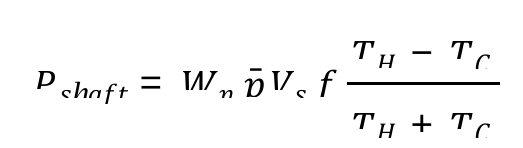
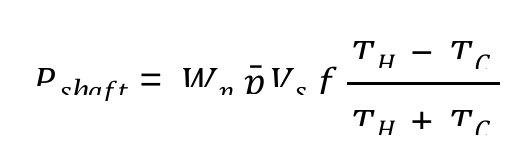
test: verify math exports on Obsidian 1.13 and 1.14

diff --git a/src/math-fonts.test.ts b/src/math-fonts.test.ts
@@ -60,10 +60,12 @@ describe("getMathJaxCSSInlined font resources", () => {
     expect(localFetch).toHaveBeenCalledWith("app://obsidian.md/lib/font.woff");
   });
 
-  it("loads absolute app font URLs through the host window", async () => {
-    setCSS('@font-face {font-family: Math; src: url("app://obsidian.md/font.ttf")}');
-    expect(await getMathJaxCSSInlined()).toContain("data:font/ttf;base64,AQIDBA==");
-    expect(localFetch).toHaveBeenCalledWith("app://obsidian.md/font.ttf");
+  it("embeds MathJax 3 absolute app font URLs through the host window", async () => {
+    const url = "app://obsidian.md/lib/mathjax/output/chtml/fonts/woff-v2/MathJax_Main-Regular.woff";
+    setCSS(`@font-face {font-family: MJXTEX; src: url("${url}")}`);
+    expect(await getMathJaxCSSInlined()).toContain("data:font/woff;base64,AQIDBA==");
+    expect(localFetch).toHaveBeenCalledWith(url);
+    expect(requestUrl).not.toHaveBeenCalled();
   });
 
   it("keeps CORS-free requestUrl loading for HTTP(S) fonts", async () => {
@@ -101,6 +103,18 @@ describe("getMathJaxCSSInlined font resources", () => {
     setCSS('@font-face {font-family: Math; src: url("https://example.com/font.woff2")}');
     expect(await getMathJaxCSSInlined()).toContain("https://example.com/font.woff2");
     expect(warn).toHaveBeenCalledTimes(1);
+  });
+
+  it("preserves a MathJax 3 absolute app URL when the host fetch rejects", async () => {
+    const warn = vi.spyOn(console, "warn").mockImplementation(() => {});
+    const url = "app://obsidian.md/lib/mathjax/output/chtml/fonts/woff-v2/MathJax_Main-Regular.woff";
+    localFetch.mockRejectedValue(new Error("Local font unavailable"));
+    setCSS(`@font-face {font-family: MJXTEX; src: url("${url}")}`);
+    expect(await getMathJaxCSSInlined()).toContain(`url("${url}")`);
+    expect(warn).toHaveBeenCalledWith(
+      "[advanced-pdf-export] failed to inline math font:", url, expect.any(Error),
+    );
+    expect(requestUrl).not.toHaveBeenCalled();
   });
 
   it("reports an unsuccessful HTTP font response", async () => {

diff --git a/src/css-builder.ts b/src/css-builder.ts
@@ -551,6 +551,7 @@ export async function getMathJaxCSSInlined(): Promise<string> {
       absoluteURL = new URL(url, activeDocument.baseURI).href;
       let buffer: ArrayBuffer;
       if (/^https?:/i.test(absoluteURL)) {
+        // Keep remote fonts CORS-free; renderer fetch is needed for app:// resources.
         const res = await requestUrl(absoluteURL);
         if (res.status !== 200) throw new Error(`HTTP ${res.status}`);
         buffer = res.arrayBuffer;

diff --git a/docs/math-font-validation.md b/docs/math-font-validation.md
@@ -1,0 +1,178 @@
+# Math font export validation
+
+Tested on 2026-10-09 in actual Obsidian desktop runtimes, using separate temporary
+profiles and a temporary vault on Windows. The official Obsidian 1.13.7 and
+1.14.4 app packages ran through the installed desktop launcher (installer
+1.12.7, Electron 39.8.3 / Chromium 142.0.7444.265). These were real app-protocol
+requests and PDF exports, not the mocked unit-test environment. This does not
+claim coverage of every installer/Electron combination or of 1.13.0 itself.
+
+The baseline was a production build of commit
+`1013e401cef7fe45663ae65b6f1fa79bfb17806d`, the parent of the fix. Both builds used
+the same settings and fixture. Generated release bundles were not used as the
+comparison baseline, so unrelated bundled CSS differences cannot affect it.
+
+## Fixture and settings
+
+One page, A4 portrait, Academic preset, 13 px Times New Roman, preview scale 1:
+
+```latex
+$$
+P_{shaft}=W_n\,\bar p\,V_s\,f\,\frac{T_H-T_C}{T_H+T_C}
+$$
+```
+
+## Version scope and compatibility
+
+| Runtime | MathJax | Font URL shape | Baseline | Fixed build |
+| --- | --- | --- | --- | --- |
+| Obsidian 1.13.7 | 3.2.2 | Absolute `app://obsidian.md/lib/mathjax/output/chtml/fonts/woff-v2/...` | No fonts inlined; the export window successfully loads the absolute app URLs | 22 WOFF resources inlined; same rendering |
+| Obsidian 1.14.4 | 4.1.3 | Root-relative `/lib/mathjax/tex-font/chtml/woff2/...` | No fonts inlined; `MJX-TEX-ZERO` and `MJX-TEX-N` have status `error` in the export | 24 WOFF2 resources inlined; both used font families load |
+
+Thus the inlining failure predates MathJax 4: `requestUrl` fails for both URL
+shapes. The visible export regression is triggered by the root-relative URLs,
+which cannot resolve from the export's blob document. MathJax 3's absolute app
+URLs previously survived as a working fallback.
+
+On 1.13.7, a direct call to the real Obsidian `requestUrl` with
+`app://obsidian.md/lib/mathjax/output/chtml/fonts/woff-v2/MathJax_Zero.woff`
+throws `ClientRequest only supports http: and https: protocols`. The real
+`activeWindow.fetch` returns 200 and 1,368 bytes. All 22 resources returned 200.
+The used families `MJXZERO`, `MJXTEX` and `MJXTEX-I` loaded in the fixed export.
+
+An additional 1.13.7 fault-injection check rejected the source window's fetch
+for that one real app font during document construction. The resulting CSS
+retained the original absolute URL, emitted exactly one resource warning, and
+the export window still loaded the font. The wrapper was restored immediately
+after the check. This intentionally failing run is separate from the healthy
+run warning counts below.
+
+On both versions, the fixed export had no font errors or `mjx-merror` nodes;
+the numerator was above the denominator. Width and height of `mjx-math`,
+`mjx-frac`, `mjx-num`, `mjx-den`, `mjx-line`, `mjx-over` and `mjx-c` matched the
+Panel preview exactly at the measured precision (tolerance 0.1 CSS px).
+
+The 1.13.7 baseline and fixed one-page PDFs both rasterize at 144 dpi to the same
+RGB pixel hash:
+
+```text
[1 lines of base64/hex data omitted]
+```
+
+This checks the actual printed result as well as the DOM/font loading state.
+On 1.14.4, the baseline fraction height differs from its preview by 7.234375 CSS
+px; the fixed export has zero difference and uses the intended MathJax fonts.
+
+## Export cost
+
+Five repetitions per build/runtime, after rendering the preview and fetching
+the local font resources once to verify their status and byte counts. These
+are warm-resource measurements, not cold startup benchmarks. Timings use
+`performance.now()` around the production modal methods. The preview layout,
+MathJax initialization, save dialog and disk write are excluded. Document
+construction includes the existing stylesheet stability wait. Total also
+includes querying font state and formula metrics in the export window.
+
+| Runtime / build | Embedded resources | Raw embedded font bytes | HTML bytes | PDF bytes | Build HTML median | Load window median | Print median | Total median |
+| --- | ---: | ---: | ---: | ---: | ---: | ---: | ---: | ---: |
+| 1.13.7 baseline | 0 | 0 | 33,674 | 23,568 | 136.6 ms | 82.9 ms | 57.2 ms | 275.6 ms |
+| 1.13.7 fixed | 22 | 328,684 | 470,589 | 23,568 | 143.0 ms | 92.7 ms | 55.7 ms | 293.1 ms |
+| 1.14.4 baseline | 0 | 0 | 54,634 | 30,783 | 136.5 ms | 83.7 ms | 123.1 ms | 348.6 ms |
+| 1.14.4 fixed | 24 | 303,836 | 459,108 | 24,716 | 147.4 ms | 103.9 ms | 58.6 ms | 311.8 ms |
+
+Raw total-time samples, in ms:
+
+| Runtime / build | Samples |
+| --- | --- |
+| 1.13.7 baseline | 290.8, 280.0, 275.6, 267.8, 271.0 |
+| 1.13.7 fixed | 293.1, 288.1, 308.4, 292.6, 293.2 |
+| 1.14.4 baseline | 335.9, 351.5, 348.6, 338.8, 350.1 |
+| 1.14.4 fixed | 311.5, 303.7, 311.8, 313.1, 312.3 |
+
+Base64 increases the temporary export HTML by 436,915 bytes (about 427 KiB) on
+1.13.7 and 404,474 bytes (about 395 KiB) on 1.14.4. The final PDF does not copy
+all of the base64 CSS: PDF size is unchanged on 1.13.7 and decreases by 6,067
+bytes on 1.14.4, where the baseline used fallback fonts.
+
+There is measurable HTML construction/window loading overhead. In this fixture,
+the total median increases by 17.5 ms on 1.13.7. The lower 1.14.4 total should
+not be generalized as a speed improvement: its baseline is rendering with
+failed fonts. These small local samples are not a performance guarantee for
+other documents or machines. Font inlining remains concurrent and deduplicated
+within each export; this change adds no persistent font cache or subsetting.
+
+Captured source-window `console.warn` calls during all five healthy document construction /
+export repetitions: **zero on both versions**. No font faces had status `error`
+in the fixed export; unused declared faces remained `unloaded`, as expected.
+
+## Why retain two fetch paths?
+
+Obsidian's [official API declaration](https://github.com/obsidianmd/obsidian-api/blob/master/obsidian.d.ts)
+documents `requestUrl` as an HTTP/HTTPS request without CORS restrictions.
+Using renderer `fetch` for remote fonts would reintroduce CORS failures when
+the font server does not permit the Obsidian origin.
+
+Confirmed in the 1.13.7 runtime using an HTTP endpoint at
+`http://127.0.0.1:9228/font.woff2`, returning four bytes and no
+`Access-Control-Allow-Origin` header: `requestUrl` returned 200 and four bytes;
+`activeWindow.fetch` threw `TypeError: Failed to fetch`. This is a transport
+check; those four probe bytes are not a valid font. Local app resources take
+the renderer path because `requestUrl` cannot handle that protocol.
+
+The source now comments on this reason. Existing absolute HTTP(S) fonts retain
+the same loader and status check; relative and absolute app fonts use the
+source window's app protocol handler. Failed loads keep an absolute fallback.
+
+## Repeating the runtime measurements
+
+Use an isolated vault with the fixture named `test.md`, enable the built plugin,
+select Academic, and open the file in its Panel. The following can be run in the
+Obsidian developer console for either build, once the preview has settled:
+
+```javascript
+const modal = app.plugins.plugins['advanced-pdf-export'].activeModal;
+const samples = [];
+for (let i = 0; i < 5; i++) {
+  const started = performance.now();
+  const built = await modal.buildExportDocument();
+  const buildMs = performance.now() - started;
+  const loading = performance.now();
+  const { win, url } = await modal.loadExportWindow(
+    require('@electron/remote'), built.fullHTML,
+  );
+  const loadMs = performance.now() - loading;
+  try {
+    const fontState = await win.webContents.executeJavaScript(
+      'document.fonts.ready.then(() => [...document.fonts].map(f => ({ family: f.family, status: f.status })))',
+    );
+    const printing = performance.now();
+    const pdf = await win.webContents.printToPDF({
+      pageSize: 'A4', printBackground: true, preferCSSPageSize: true,
+      margins: { marginType: 'none' },
+    });
+    samples.push({
+      buildMs, loadMs, printMs: performance.now() - printing,
+      totalMs: performance.now() - started,
+      htmlBytes: Buffer.byteLength(built.fullHTML), pdfBytes: pdf.length,
+      embeddedFonts: (built.fullHTML.match(/data:font\//g) || []).length,
+      fontState,
+    });
+  } finally {
+    win.close();
+    URL.revokeObjectURL(url);
+  }
+}
+console.table(samples);
+```
+
+The recorded validation additionally measured the seven formula elements and
+rasterized the PDFs with PyMuPDF. The console snippet queries font state but
+omits those formula measurements, so total timings can differ slightly.
+
+## Automated checks
+
+- `npm test`: 170 passed, including 10 font-inlining cases. MathJax 3's real URL
+  shape and its absolute fallback on rejection are explicitly covered.
+- `npm run build`: type checking and production bundling passed.
+- On Windows, the changelog fixture tests were run with Git `core.autocrlf=false`
+  through environment configuration, preserving their expected LF checkouts.
